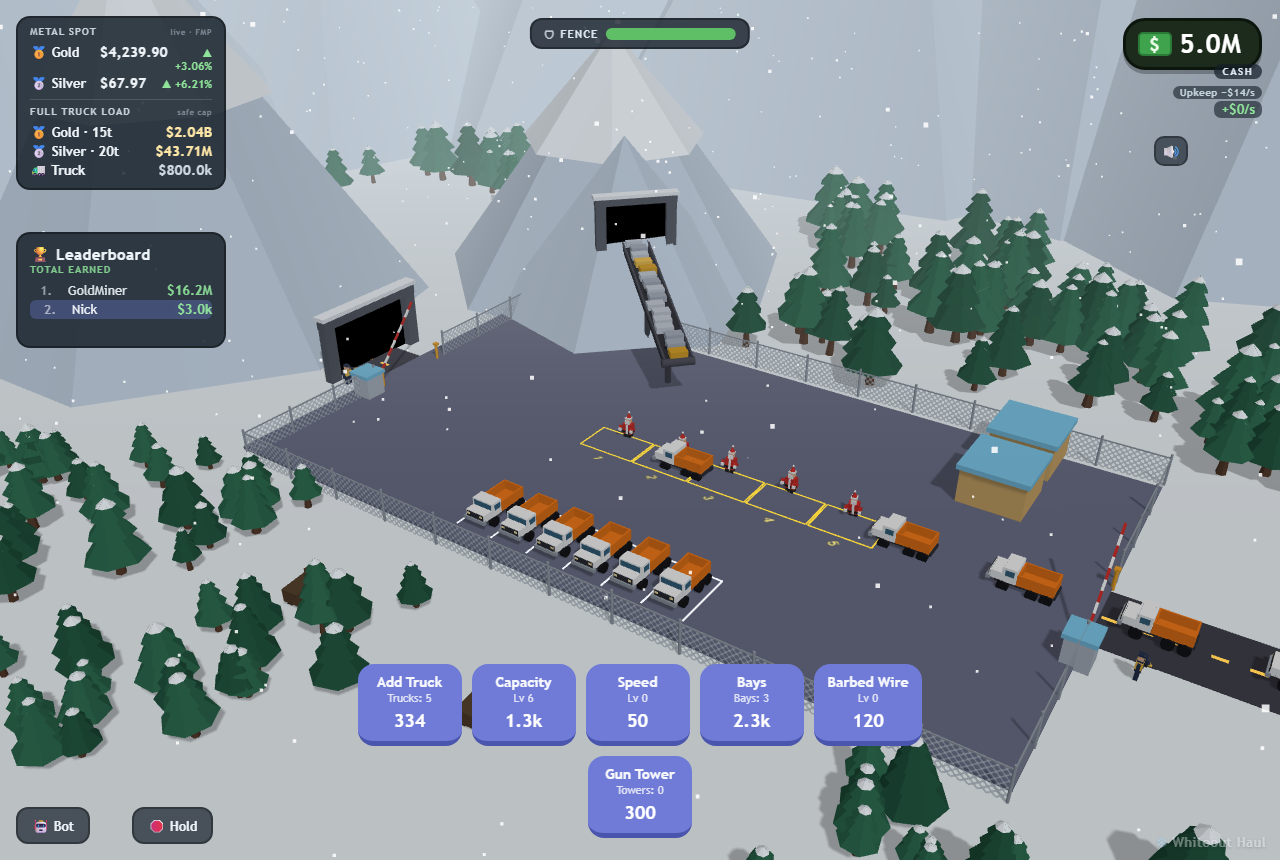
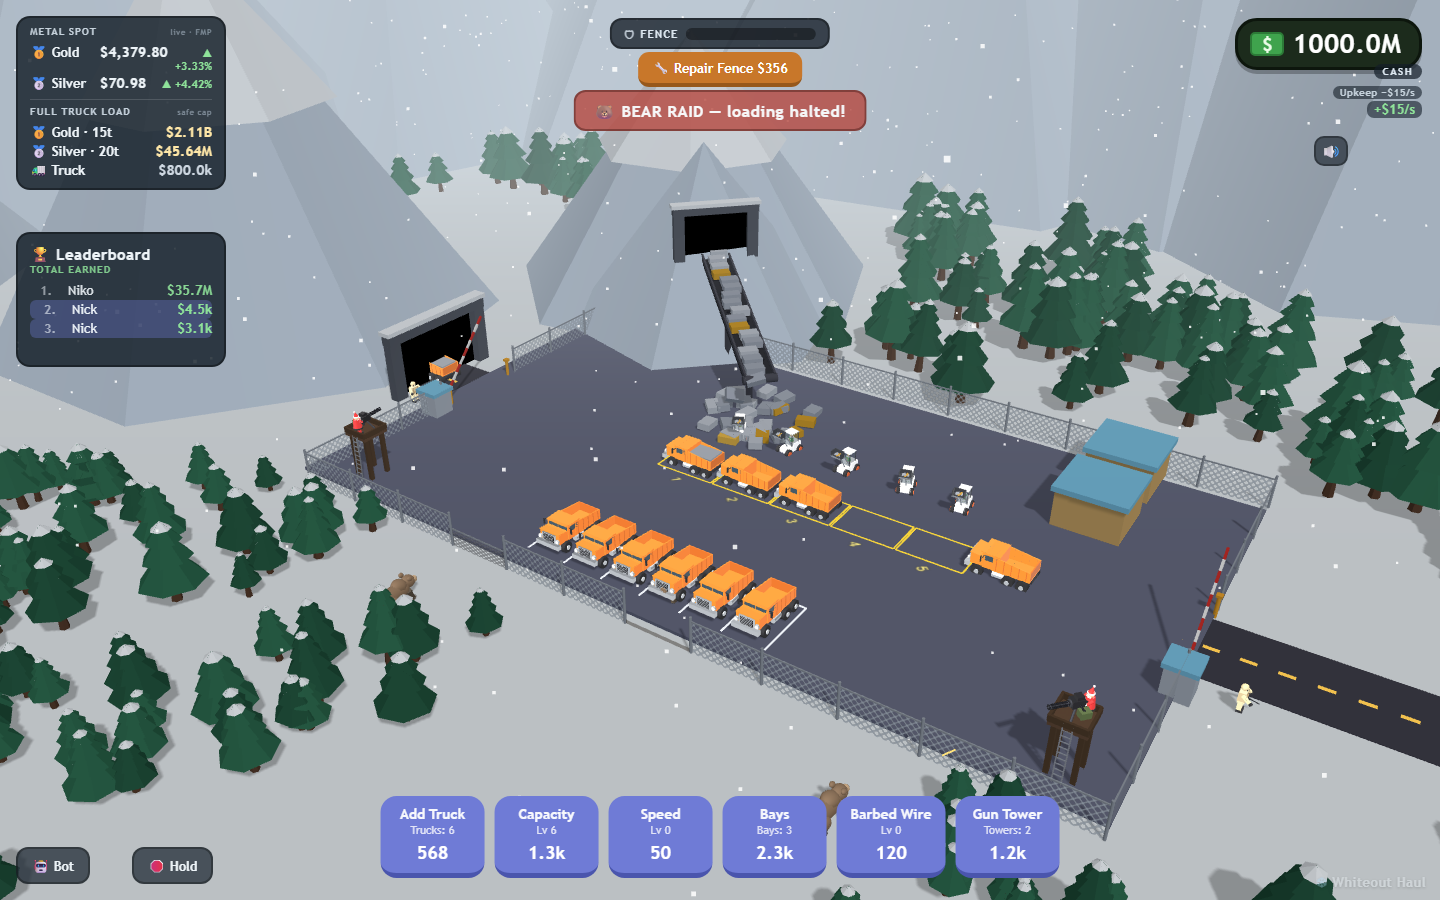
docs: refresh README screenshots + captions for the new visuals
- Regenerate the overview and bear-raid screenshots (Freightliner trucks,
  elf wheel loaders, M134 minigun gun towers, bears at the fence).
- Update captions/text: elves-on-loaders, M134 miniguns + ladder, and the
  reworked audio (minigun roar, M-16 auto, bear-growl sample, engine, payday).
- Add verify/uishots.mjs (the capture script).

diff --git a/README.md b/README.md
@@ -2,7 +2,7 @@
 
 *Mine gold & silver in the frozen north — outlast the bears, the blizzards and the avalanches.*
 
-Whiteout Haul is a browser-based 3D idle/management game built with **Three.js** + **Vite** (vanilla JS, no framework). A conveyor pours silver and gold bricks onto a pile; orange dump trucks queue at the loading bay, get filled by Santa workers, and drive off — each full load that departs pays out. You spend the proceeds on upgrades to haul faster, defend the site against wildlife and weather, and climb a global leaderboard.
+Whiteout Haul is a browser-based 3D idle/management game built with **Three.js** + **Vite** (vanilla JS, no framework). A conveyor pours silver and gold bricks onto a pile; orange Freightliner dump trucks queue at the loading bay, get loaded by elves driving wheel loaders, and drive off — each full load that departs pays out. You spend the proceeds on upgrades to haul faster, defend the site against wildlife and weather, and climb a global leaderboard.
 
 The twist: running a mine costs money **every second** (wages, fuel), and the site is under constant threat (bear raids, avalanches). A human can't babysit it 24/7 — so the game ships with an in-browser **automation bot** ("cron") that keeps the operation alive while you're away.
 
@@ -12,8 +12,8 @@ The twist: running a mine costs money **every second** (wages, fuel), and the si
 
 <table>
 <tr>
-<td width="50%"><img src="docs/screenshots/01-overview.png"><br><b>Operations overview</b><br>The conveyor feeds the pile; trucks queue at the loading bays, fill with silver/gold, and haul off for cash. Fenced site with a gated entrance and exit.</td>
-<td width="50%"><img src="docs/screenshots/04-bear-raid.png"><br><b>Bear raid</b><br>Waves of bears claw the perimeter fence while Santa-gunner towers fire back. A breach halts loading and blocks the lane until you repair.</td>
+<td width="50%"><img src="docs/screenshots/01-overview.png"><br><b>Operations overview</b><br>The conveyor feeds the pile; Freightliner trucks queue at the bays while elves on wheel loaders tip gold/silver bars into them, and they haul off for cash. Fenced site with gun towers, a gated entrance and exit.</td>
+<td width="50%"><img src="docs/screenshots/04-bear-raid.png"><br><b>Bear raid</b><br>Waves of bears prowl in and claw the perimeter fence while Santa-gunner <b>M134 minigun</b> towers fire back. A breach halts loading and blocks the lane until you repair.</td>
 </tr>
 <tr>
 <td width="50%"><img src="docs/screenshots/06-avalanche.png"><br><b>Avalanche</b><br>Snow crashes across the lane. Trucks caught moving are destroyed; <b>hold the convoy</b> to save them (here the bot held in time — the trucks were only "battered").</td>
@@ -142,9 +142,9 @@ The site is under constant threat. Ignoring any of these stops the money and ble
 ### 🐻 Bear raids
 - Bears wander in from the treeline in **waves of 2–3** (every ~9s at 0 barbed wire; rarer with more wire), from different directions, attacking the **front fence** (in clear view).
 - They **claw a fence segment down** — panels visibly sag, tint, and collapse into a gap. The fence health bar (top-center) tracks the **weakest** stretch.
-- **Breach!** When any segment is downed, bears **storm the dock**: they go after the Santa workers (who scatter in panic) and **block the truck lane** so trucks physically can't pass. No trucks moving → no income → upkeep bleeds you.
+- **Breach!** When any segment is downed, bears **storm the dock**: they go after the elf loaders (who flee in panic) and **block the truck lane** so trucks physically can't pass. No trucks moving → no income → upkeep bleeds you.
 - **Defenses:**
-  - **Gun Towers** — Santa gunners on tripod-mounted machine guns. They scan, track, and shoot bears within range (corners of the site).
+  - **Gun Towers** — Santa gunners on tripod-mounted **M134 miniguns** (with an access ladder up to the deck). They scan, track, and shoot bears within range (corners of the site).
   - **Gate Guards** — the two boom-gate guards carry **M-16s** and shoot bears near their posts. A bear that reaches a guard can **injure** them (they go down ~12s; **$300 replacement**).
   - **Barbed Wire** — concertina coils installed **in front of** the fence on the stretches gunfire can't reach (the front-center gap). Bears must chew through a coil first and get **shredded** doing it. **You can drag coils** to reposition them (🧷 Move Wire button), and they **take damage too** — torn wire is folded into the repair bill.
   - **🔧 Repair Fence** — a button (and bot action) that pays to restore the wire and panels and **drives off any bears that got inside**. Repair cost scales with total damage (remote-site materials premium).
@@ -232,10 +232,11 @@ At a gold price of ~$4,240/oz this makes a full gold load worth **~$2 billion** 
 
 ## Sound
 
-All effects are **synthesized at runtime** via the Web Audio API (no audio files):
-- 🔫 machine-gun rattle (tower/guard fire)
-- 🐻 bear roars (on spawn)
-- 💰 ka-ching (each paid delivery)
+Sound is mostly **synthesized at runtime** via the Web Audio API:
+- 🔫 a deep, sustained **M134 minigun roar** (towers) and a full-auto **M-16 rattle** (guards)
+- 🐻 bear roar — a recorded growl sample (`public/bear-growl.mp3`), with a synth fallback
+- 🚚 a deep diesel **engine bed** with rev (accel) and air-brake (stop) for the trucks
+- 💰 a heavy **"payday"** plus a **metal-scrap clatter** as gold/silver bars land in the bed
 - 🚨 breach alarm, 🏔️ avalanche rumble + crash
 
 Audio unlocks on your first click/keypress (browser policy). Toggle with the **🔊 mute** button (top-right).